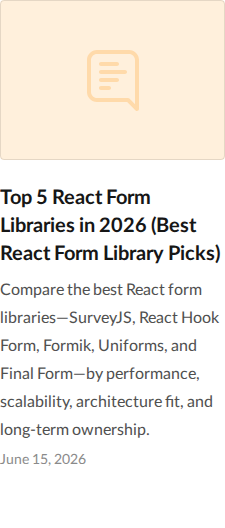
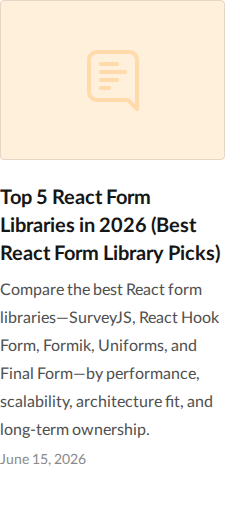
move-to-selfhosted-and-stabilization

diff --git a/site/manage.spec.ts b/site/manage.spec.ts
@@ -20,6 +20,11 @@ test('Remove the non-commercial usage text', async ({ page }) => {
   await acceptTermsCheckboxLogin.click();
   await loginButton.click();
 
+  // Login is async and finishes with a client-side redirect; wait for the logged-in top
+  // bar before navigating, otherwise the goto below races with that redirect
+  // (net::ERR_ABORTED) and can also land on an unauthenticated page.
+  await expect(page.locator('.v2-class---top-menu-item--drop-down-account').first()).toBeVisible({ timeout: 30000 });
+
   const removeNonCommercialTab = page.locator('.v2-class---paragraph-link').filter({ hasText: 'instructions', visible: true }).first();
 
   await page.goto(`${url}/manage`);

diff --git a/site/licences-expired-notifications.spec.ts b/site/licences-expired-notifications.spec.ts
@@ -45,6 +45,10 @@ test('licences expired notifications', async ({ page, browser }) => {
   await page.locator('label').filter({ hasText: 'I have read, understand and accept the surveyjs.io website Terms of Use and Priv' }).click();
   await mockPopupType({ popupType: 'none', preventCountingRequests: true }); // prevent counting next api call because we don't know actually about cookie existence in current browser context https://playwright.dev/docs/next/api/class-browsercontext
   await page.locator('.v2-class---signup-page__actions-footer-button-container--login').click(); // +0 api call because counting prevented
+  // Login is async and finishes with a client-side redirect; wait for the logged-in top
+  // bar before touching cookies/navigating, otherwise the goto races with that redirect
+  // (net::ERR_ABORTED).
+  await expect(page.locator(topBarAccountClass).first()).toBeVisible({ timeout: 30000 });
   await removeExpirationCookie();
   await mockPopupType({ popupType: 'none' });
   await page.goto(`${url}`); // +1 api call and cookie is set

diff --git a/site/my-surveys.spec.ts b/site/my-surveys.spec.ts
@@ -21,6 +21,10 @@ test('remember organization', async ({ page, browser }) => {
   await page.locator('label').filter({ hasText: 'I have read, understand and accept the surveyjs.io website Terms of Use and Priv' }).click();
   await page.locator('.v2-class---signup-page__actions-footer-button-container--login').click();
 
+  // Login is async and finishes with a client-side redirect; wait for the logged-in top
+  // bar before navigating, otherwise the goto races with that redirect (net::ERR_ABORTED).
+  await expect(page.locator('.v2-class---top-menu-item--drop-down-account').first()).toBeVisible({ timeout: 30000 });
+
   await page.goto(`${url}/service/mysurveys`);
 
   await expect(await isOrganizationCookieExists()).toBeFalsy();